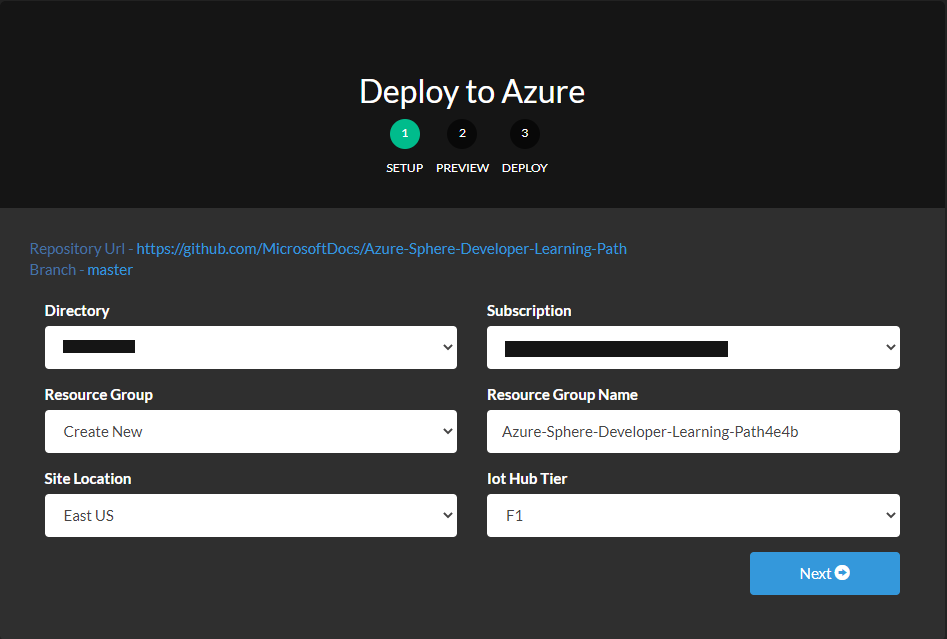
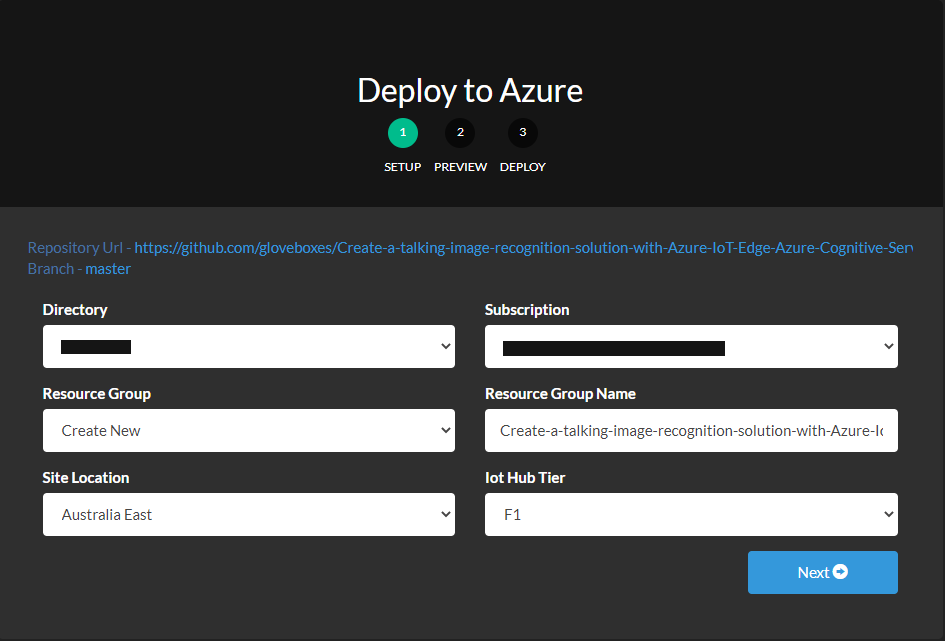
doco

Changed region(s): [[0.0307, 0.4757, 0.9513, 0.9515], [0.0307, 0.3568, 0.9513, 0.446], [0.3683, 0.1189, 0.6138, 0.2676]]

diff --git a/zdocs/module_4_create_azure_resources/README.md b/zdocs/module_4_create_azure_resources/README.md
@@ -1,4 +1,4 @@
-# Azure Services
+# Creating required Azure Services
 
 This solution will use three services
 
@@ -17,9 +17,9 @@ If you do not have an Azure Subscription then [create an Azure Subscription](htt
 
 You can prepare Azure cloud resources with the Azure CLI, the Azure Portal Web interface, or deployment templates. For this module, we will be using an Azure deployment template.
 
-Click the **Deploy to Azure** button to deploy Azure resources. An IoT Hub will be created, along with an IoT Edge Device.
+Click the **Deploy to Azure** button to deploy Azure resources. An IoT Hub will be created.
 
-[![Deploy to Azure](https://azuredeploy.net/deploybutton.png)](https://github.com/gloveboxes/Rpi.Rover.NET.Core.IoT.Hub/tree/master/setup)
+[![Deploy to Azure](https://azuredeploy.net/deploybutton.png)](https://azuredeploy.net/?repository=https://github.com/gloveboxes/Create-a-talking-image-recognition-solution-with-Azure-IoT-Edge-Azure-Cognitive-Services/tree/master/zdocs/azure-deployment)
 
 1. Select or create a new resource group, choose the site located closest to you, and select the IoT Hub Tier. The default IoT Hub tier is the free **F1** tier. You can only have one free IoT Hub per subscription. If you already have a free IoT Hub then either select S1 ([pricing](https://azure.microsoft.com/en-us/pricing/details/iot-hub/)) or delete your existing free IoT Hub before proceeding.
 
@@ -30,12 +30,9 @@ Click the **Deploy to Azure** button to deploy Azure resources. An IoT Hub will 
 
     ![](../resources/azure-deployment-completed.png)
 
-4. When the deployment has completed, click on **Manage your resources**. You will see two services listed in the Azure Web Portal. The Device Provisioning Service (DPS) and the IoT Hub. Appended to the resource names is a random string to ensure the names are globally unique.
+4. When the deployment has completed, click on **Manage your resources**. You will see the IoT Hub listed in the Azure Web Portal.
 
     ![](../resources/azure-iot-resources.png)
-
-5. **DO NOT** close the Azure Web Portal and you will be needing it shortly.
-
 
 ---
 
